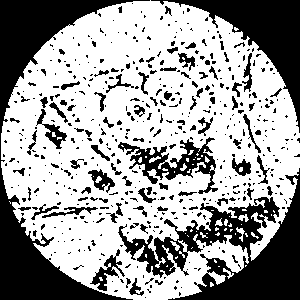
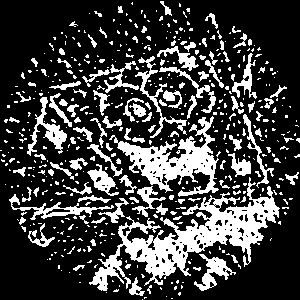
WIP: optimized reconstruction

diff --git a/implementation.py b/implementation.py
@@ -1,4 +1,4 @@
-import numpy
+import numpy as np
 from algotom.util.simulation import make_sinogram
 from algotom.rec.reconstruction import fbp_reconstruction
 from sklearn.metrics import mean_absolute_error
@@ -9,11 +9,11 @@ from collections import Counter
 
 
 def make_angle_list(number_of_projections):
-    return numpy.linspace(0, math.pi, number_of_projections + 1)[:-1]
+    return np.linspace(0, math.pi, number_of_projections + 1)[:-1]
 
 
-def get_mse_from_images(img1, img2):
-    return mean_absolute_error(img1, img2)
+def get_mse_from_images(orig, rec):
+    return np.count_nonzero(rec - orig) / np.count_nonzero(orig)
 
 
 def make_reconstructed_image(image, projection_angles):
@@ -121,12 +121,14 @@ def add_rounded_angle(angle_list, new_angle):
     #     angle_list.append(rounded_angle)
     angle_list.append(rounded_angle)
 
+
 def get_noisiness_of_signal(sinogram_row):
     noise_value = 0
     for value_idx in range(1, len(sinogram_row)):
         noise_value += abs(sinogram_row[value_idx] - sinogram_row[value_idx - 1])
 
     return noise_value
+
 
 def get_noisiness_of_sinogram(sinogram):
     row_count = 0
@@ -137,67 +139,133 @@ def get_noisiness_of_sinogram(sinogram):
 
     return row_noise
 
+
 def get_improved_sinogram_based_on_noise(sinogram, sinogram_variance):
     # Get the 50 highest noise sinogram rows
-    sorted_row_variances = {key: sinogram_variance[key] for key in sorted(sinogram_variance, key=sinogram_variance.get, reverse=True)[:50]}
-    new_sinogram =  numpy.array(sinogram[0])
+    sorted_row_variances = {key: sinogram_variance[key] for key in
+                            sorted(sinogram_variance, key=sinogram_variance.get, reverse=True)[:50]}
+    new_sinogram = np.array(sinogram[0])
     new_angles = []
 
     # Append the rows of the original sinogram which has the most noise
     for angle in sorted_row_variances:
-        new_sinogram = numpy.vstack((sinogram[angle], new_sinogram))
+        new_sinogram = np.vstack((sinogram[angle], new_sinogram))
         new_angles.insert(0, math.radians(angle))
 
     # Delete the first dummy row
-    new_sinogram = numpy.delete(new_sinogram, len(new_sinogram)-1, 0)
+    new_sinogram = np.delete(new_sinogram, len(new_sinogram) - 1, 0)
     return new_sinogram, new_angles
+
 
 def noisiness_based_reconstruction(image):
     sinogram = make_sinogram(image, make_angle_list(360))
     sinogram_variance = get_noisiness_of_sinogram(sinogram)
     improved_sinogram, reduced_angles = get_improved_sinogram_based_on_noise(sinogram, sinogram_variance)
-    fbp_reconstructed = fbp_reconstruction(improved_sinogram, image.shape[0] / 2, reduced_angles, apply_log=False, gpu=False)
+    fbp_reconstructed = fbp_reconstruction(improved_sinogram, image.shape[0] / 2, reduced_angles, apply_log=False,
+                                           gpu=False)
     return cv2.threshold(fbp_reconstructed, 127, 255, cv2.THRESH_BINARY)[1]
 
+
+# def test_optimization_with_noisiness(image):
+#     reconstructed_img = noisiness_based_reconstruction(image)
+#     save_image("./reconstructed/recon_image_noisy_improved.png", reconstructed_img)
+#
+#     angle_list = make_angle_list(50)
+#     reconstructed_img = make_reconstructed_image(image, angle_list)
+#     save_image("./reconstructed/recon_image_noisy_reference.png", reconstructed_img)
+
 def test_optimized_reconstruction(image):
-    components = get_list_of_switching_components(image)
+    start_projection_count = 60  # number of projections
+    projection_list_number = 100  # Number of generated random projections
+    max_error_limit = 1  # Error limit, which needs to be achieved
+    optimization_step_size = 0.000174532925  # 0.01 degree in radians
 
-    angles = []
-    for comp in components:
-        normalized_angle_1 = get_normalized_angle_from_2_coordinates(comp[0], comp[1])
-        add_rounded_angle(angles, normalized_angle_1)
+    continue_optimization = True
+    best_projection_error = -1
+    best_projection = []
+    number_of_projections = start_projection_count
 
-    counter_set = get_counter_from_vector(angles)
+    while continue_optimization:
+        random_projections = np.random.uniform(0, math.pi, (number_of_projections, projection_list_number))
+        print("Testing " + str(number_of_projections) + " number of projections.\n")
+        print("Current best error: " + str(best_projection_error))
 
-    # Get the most used angles
-    most_common = counter_set.most_common(20)
+        # Testing the random projections, and selecting the best
+        for projection in random_projections:
+            error = get_mse_from_images(image, make_reconstructed_image(image, projection))
 
-    # Get the angle, the first component contains the number of them
-    reduced_angles = [float(angle[0]) for angle in most_common]
-    # Add the projections from the other side too
-    other_projections = [math.pi - angle for angle in reduced_angles]
-    reduced_angles.extend(other_projections)
+            if best_projection_error == -1:
+                # Handle first reconstruction
+                best_projection_error = error
+                best_projection = projection
+                continue
 
-    add_trivial_angles(reduced_angles)
+            if error < best_projection_error:
+                best_projection_error = error
+                best_projection = projection
 
-    print("total projections: " + str(len(reduced_angles)))
+        # Here we found the best projection from the random list
+        print("Best random projection error: " + str(best_projection_error))
+        error_improvement = 1
+        best_projection_iter = best_projection
+        index_of_optimized_angle = 0
+        improved_overall_error = best_projection_error
+        tried_angles = 1
 
-    reconstructed_img = make_reconstructed_image(image, reduced_angles)
-    save_image("./reconstructed/recon_image_improved.png", reconstructed_img)
+        # Greedy algorithm to improve the projection
+        while error_improvement > 0.01 and tried_angles != len(best_projection_iter):
+            print(".")
+            best_projection_iter[index_of_optimized_angle] += optimization_step_size
+            error = get_mse_from_images(image, make_reconstructed_image(image, best_projection_iter))
 
-    angle_list = make_angle_list(50)
-    reconstructed_img = make_reconstructed_image(image, angle_list)
-    save_image("./reconstructed/recon_image_reference.png", reconstructed_img)
+            # Optimization is successful
+            if error < improved_overall_error:
+                error_improvement = improved_overall_error - error
+                improved_overall_error = error
+                tried_angles = 1
+                continue
 
-def test_optimization_with_noisiness(image):
-    reconstructed_img = noisiness_based_reconstruction(image)
-    save_image("./reconstructed/recon_image_noisy_improved.png", reconstructed_img)
+            # If addition didn't work, try to substract
+            best_projection_iter[index_of_optimized_angle] -= 2 * optimization_step_size
+            error = get_mse_from_images(image, make_reconstructed_image(image, best_projection_iter))
 
-    angle_list = make_angle_list(50)
-    reconstructed_img = make_reconstructed_image(image, angle_list)
-    save_image("./reconstructed/recon_image_noisy_reference.png", reconstructed_img)
+            # Optimization is successful
+            if error < improved_overall_error:
+                error_improvement = improved_overall_error - error
+                improved_overall_error = error
+                tried_angles = 1
+                continue
 
-original_image = cv2.imread("./sample_pictures/sb_hires_rect.png", flags=cv2.IMREAD_GRAYSCALE)
+            tried_angles += 1
+            # If we tried to improve all the angles, start again
+            if index_of_optimized_angle >= len(best_projection_iter):
+                index_of_optimized_angle = 0
+            else:
+                index_of_optimized_angle += 1
+
+        print("Best optimized projection error: " + str(improved_overall_error))
+
+        # In this case, the starting number of projections is not good enough
+        if improved_overall_error > max_error_limit and number_of_projections == start_projection_count:
+            raise Exception(
+                "Reconstruction error is bigger than the limit with starting " + str(
+                    number_of_projections) + "projections. Please increase the number of the starting projection count!")
+
+        # Optimization successful, try to decrease number of projections
+        if improved_overall_error < best_projection_error and improved_overall_error < max_error_limit:
+            best_projection_error = improved_overall_error
+            best_projection = best_projection_iter
+            number_of_projections -= 1
+        else:
+            # Optimization couldn't find a better reconstruction, we give back the previous projection that was under the error limit
+            continue_optimization = False
+
+    print("Least projection achieved is " + str(len(best_projection)))
+    save_image("./reconstructed/opt_reconstruction_" + str(len(best_projection)) + ".png",
+               make_reconstructed_image(image, best_projection))
+
+
+original_image = cv2.imread("./sample_pictures/sb_hires_inv.png", flags=cv2.IMREAD_GRAYSCALE)
 # test_reconstruction(original_image)
-# test_optimized_reconstruction(original_image)
-test_optimization_with_noisiness(original_image)
+test_optimized_reconstruction(original_image)
+# test_optimization_with_noisiness(original_image)
